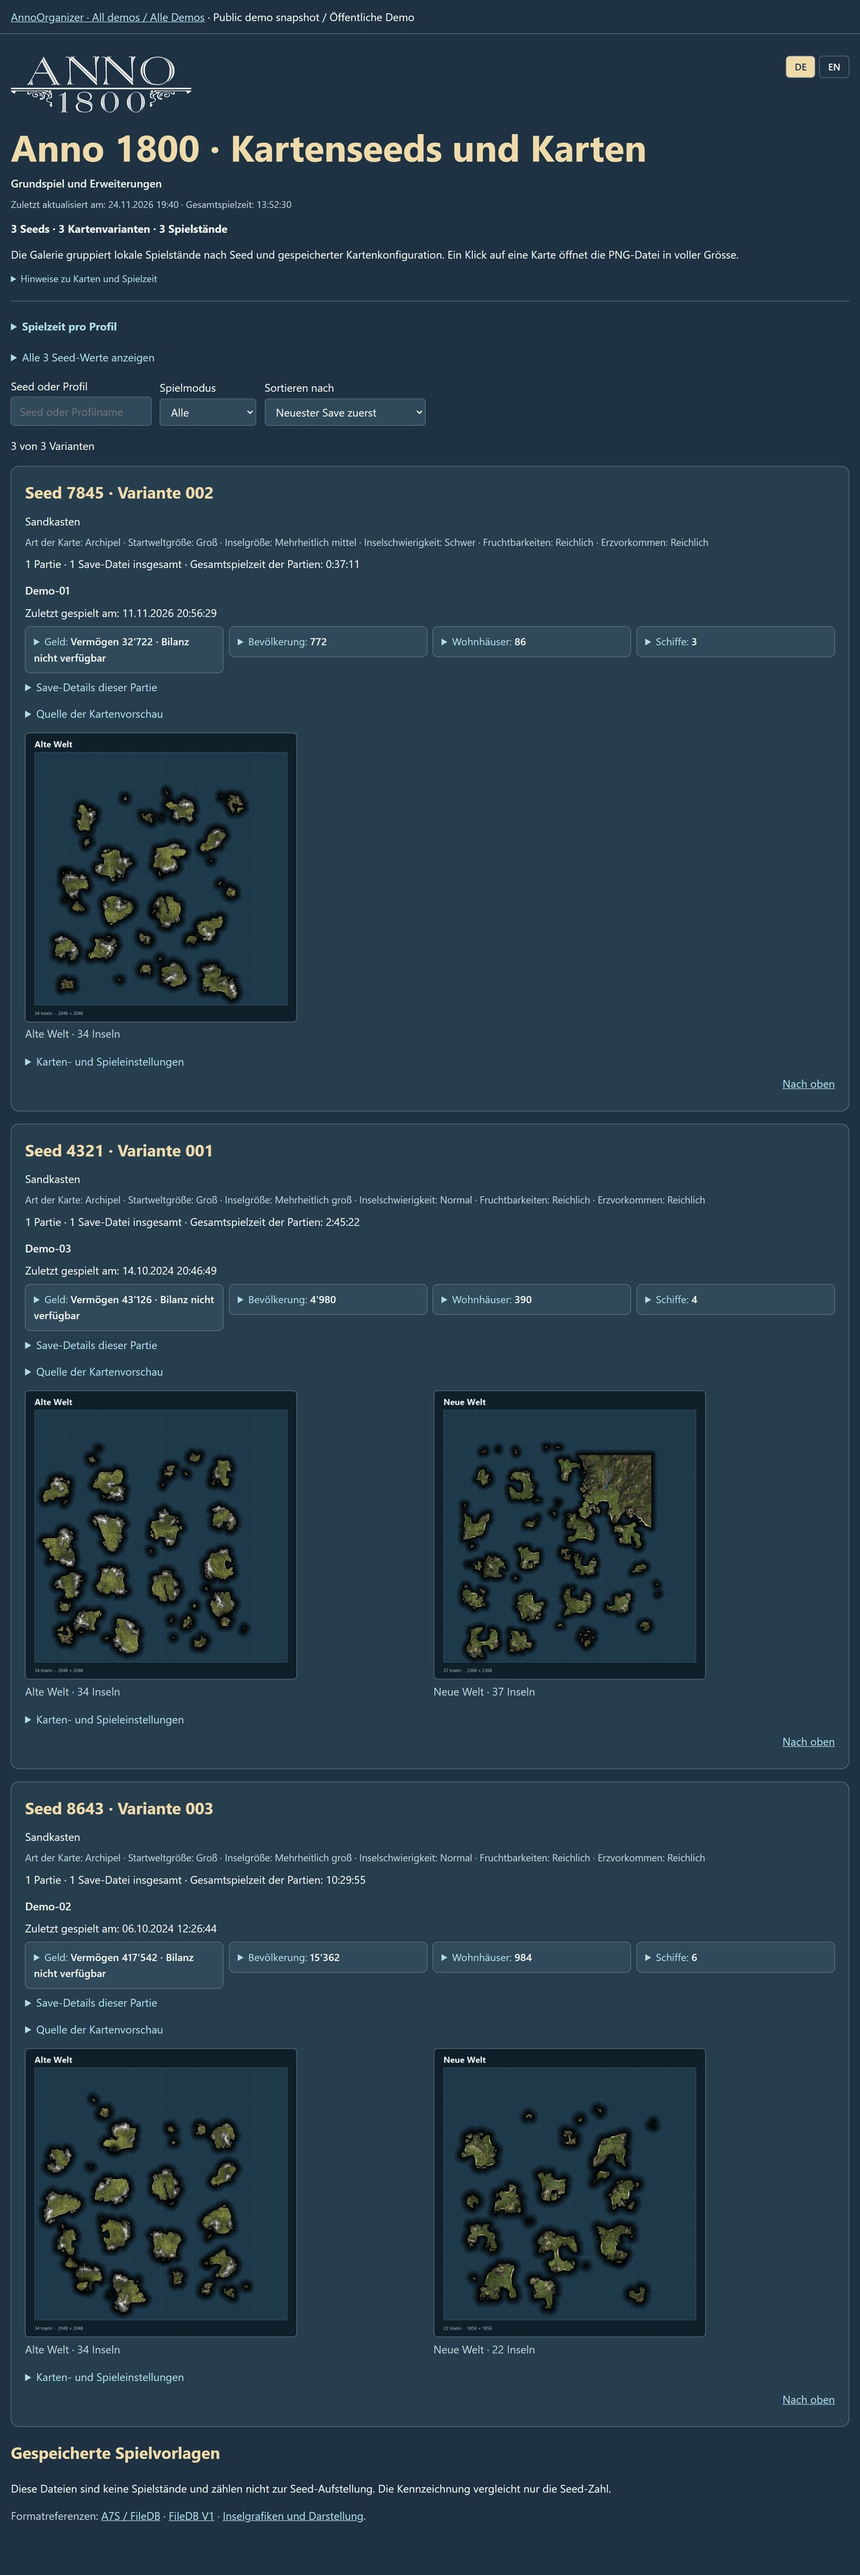
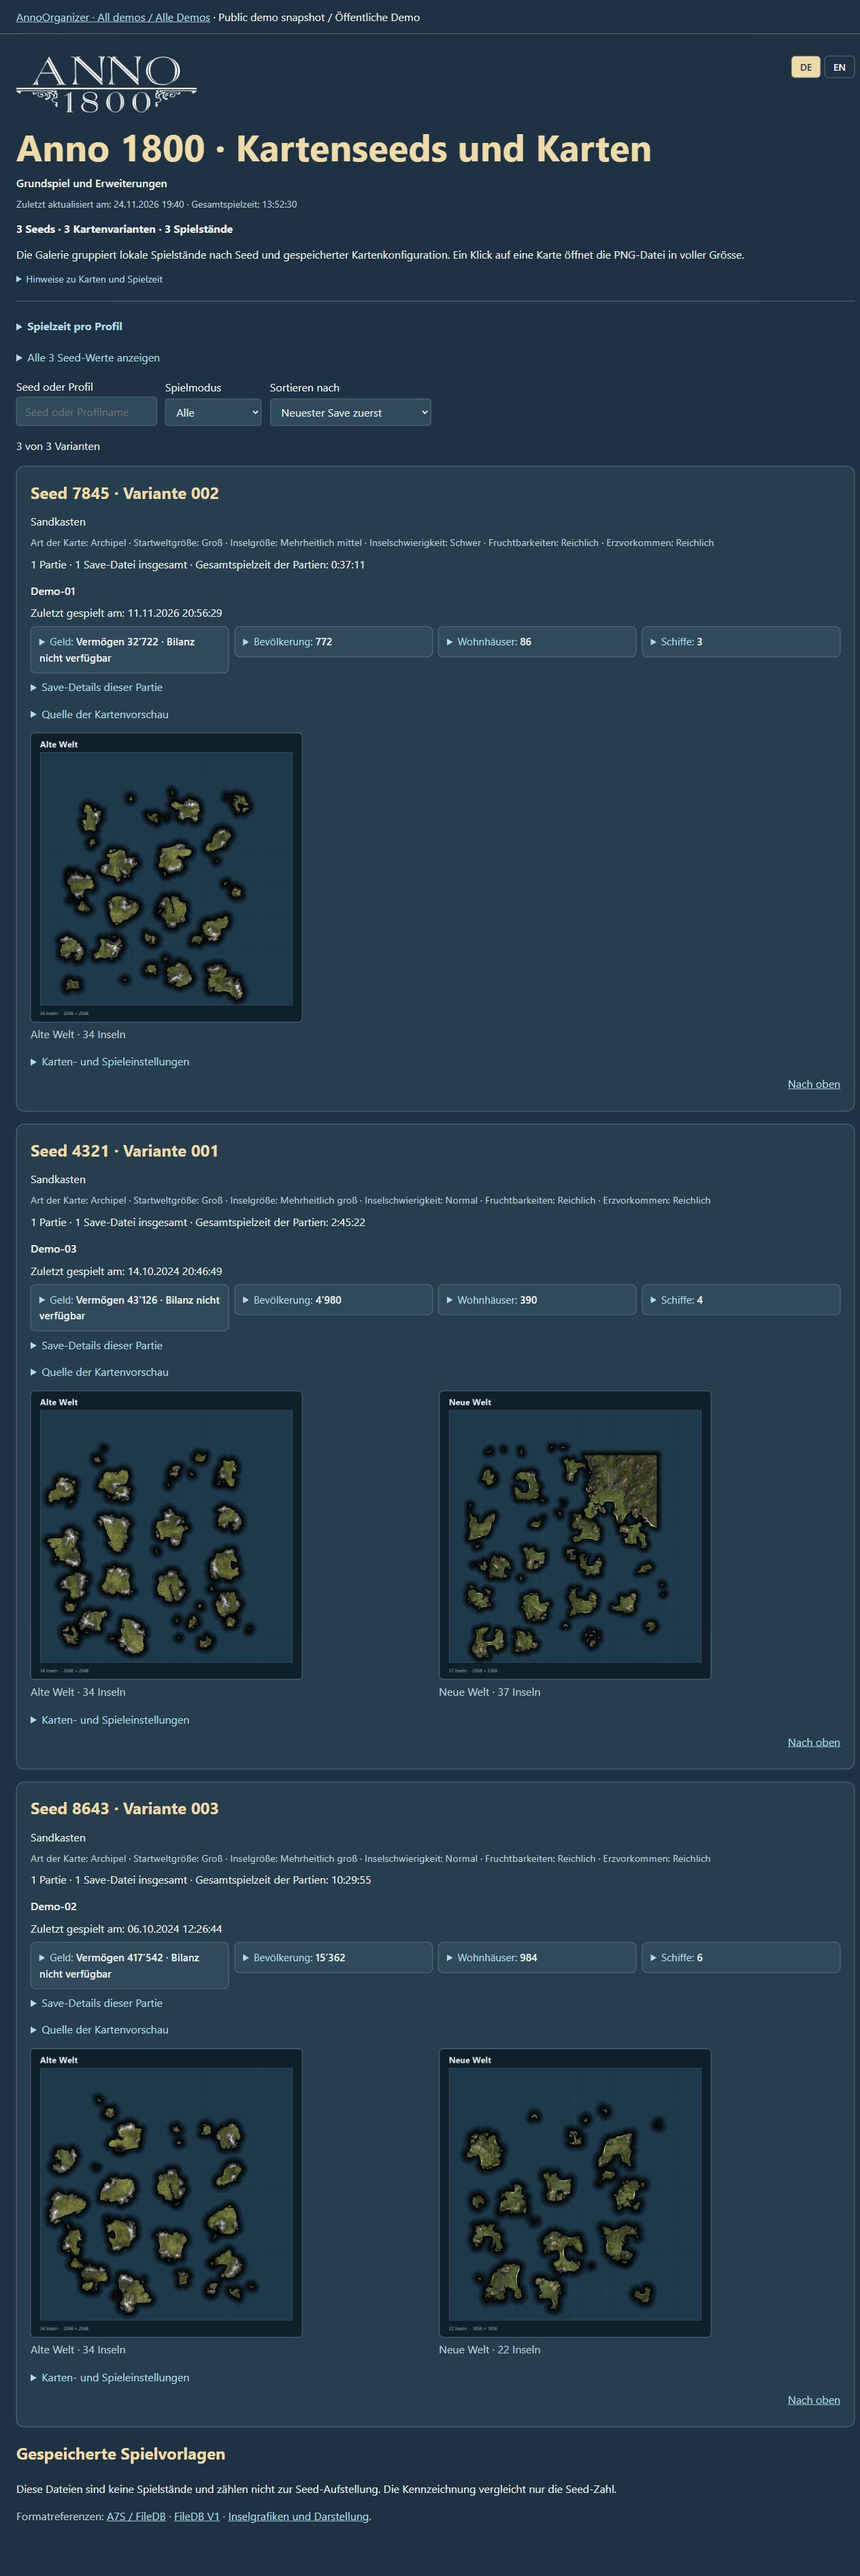
docs: refresh German and English gallery screenshots - Mithilfe von Codex

diff --git a/README.md b/README.md
@@ -33,12 +33,12 @@ The demo landing page and galleries share the same **DE/EN switch**. Your saved 
 
 ## Gallery previews
 
-The previews show all five bundled demo galleries; click an image for full resolution. Map demos include settled islands, population and residence counts in compact disclosure groups. All galleries use game logos and matching colours; Anno 1404 uses a light parchment theme.
+The previews show all five bundled demo galleries in English; click an image for full resolution. The German README uses matching German screenshots. Map demos include settled islands, population and residence counts in compact disclosure groups. All galleries use game logos and matching colours; Anno 1404 uses a light parchment theme.
 
 | Gallery | Anno 117 | Anno 1800 | Anno 1404 |
 |---|---|---|---|
-| Stamps | [<img src="anno117/docs/images/stamp-gallery.jpg" alt="Anno 117 demo stamp gallery with city layouts, Ceres filters and lavender expansion reserve" width="360">](anno117/docs/images/stamp-gallery.jpg) | [<img src="anno1800/docs/images/stamp-gallery.jpg" alt="Anno 1800 demo stamp gallery with tractor, silo, electricity, town hall and trade union filters" width="360">](anno1800/docs/images/stamp-gallery.jpg) | Not implemented |
-| Maps | [<img src="anno117/docs/images/map-gallery.jpg" alt="Anno 117 demo map gallery with population and residences" width="360">](anno117/docs/images/map-gallery.jpg) | [<img src="anno1800/docs/images/map-gallery.jpg" alt="Anno 1800 demo map gallery with population and residences" width="360">](anno1800/docs/images/map-gallery.jpg) | [<img src="anno1404/docs/images/map-gallery.jpg" alt="Anno 1404 demo map gallery with population and residences" width="360">](anno1404/docs/images/map-gallery.jpg) |
+| Stamps | [<img src="anno117/docs/images/stamp-gallery-en.jpg" alt="Anno 117 demo stamp gallery with city layouts, Ceres filters and lavender expansion reserve" width="360">](anno117/docs/images/stamp-gallery-en.jpg) | [<img src="anno1800/docs/images/stamp-gallery-en.jpg" alt="Anno 1800 demo stamp gallery with tractor, silo, electricity, town hall and trade union filters" width="360">](anno1800/docs/images/stamp-gallery-en.jpg) | Not implemented |
+| Maps | [<img src="anno117/docs/images/map-gallery-en.jpg" alt="Anno 117 demo map gallery with population and residences" width="360">](anno117/docs/images/map-gallery-en.jpg) | [<img src="anno1800/docs/images/map-gallery-en.jpg" alt="Anno 1800 demo map gallery with population and residences" width="360">](anno1800/docs/images/map-gallery-en.jpg) | [<img src="anno1404/docs/images/map-gallery-en.jpg" alt="Anno 1404 demo map gallery with population and residences" width="360">](anno1404/docs/images/map-gallery-en.jpg) |
 
 ## Quick start
 

diff --git a/anno1800/README.md b/anno1800/README.md
@@ -6,7 +6,7 @@
 
 [English](README.md) · [Deutsch](README.de.md)
 
-This folder is independently usable. It includes its own launcher, settings, dependencies and license and does not require the repository's main launcher or the other games. Source game files are read only. Menus, messages and gallery text currently remain German.
+This folder is independently usable. It includes its own launcher, settings, dependencies and license and does not require the repository's main launcher or the other games. Source game files are read only. Menus and log messages remain German; HTML galleries provide a DE/EN switch.
 
 ## Preview
 
@@ -14,13 +14,13 @@ This folder is independently usable. It includes its own launcher, settings, dep
 
 Five sample layouts across four regions, with technology and administration filters.
 
-[![Anno 1800 demo stamp gallery with tractor, silo, electricity, town hall and trade union filters](docs/images/stamp-gallery.jpg)](docs/images/stamp-gallery.jpg)
+[<img src="docs/images/stamp-gallery-en.jpg" alt="Anno 1800 demo stamp gallery with tractor, silo, electricity, town hall and trade union filters" width="360">](docs/images/stamp-gallery-en.jpg)
 
 ### Map gallery
 
 Standardised gallery header and Old World island overview with seed, saved map settings and save metadata.
 
-[<img src="docs/images/map-gallery.jpg" alt="Map gallery with population and residences" width="360">](docs/images/map-gallery.jpg)
+[<img src="docs/images/map-gallery-en.jpg" alt="Map gallery with population and residences" width="360">](docs/images/map-gallery-en.jpg)
 
 [Open the compact map gallery HTML demo](https://morima79.github.io/AnnoOrganizer/anno1800/maps/)
 

diff --git a/anno117/README.md b/anno117/README.md
@@ -6,7 +6,7 @@
 
 [English](README.md) · [Deutsch](README.de.md)
 
-This folder is independently usable. It includes its own launcher, settings, dependencies and license and does not require the repository's main launcher or the other games. Source game files are read only. Menus, messages and gallery text currently remain German.
+This folder is independently usable. It includes its own launcher, settings, dependencies and license and does not require the repository's main launcher or the other games. Source game files are read only. Menus and log messages remain German; HTML galleries provide a DE/EN switch.
 
 ## Preview
 
@@ -14,13 +14,13 @@ This folder is independently usable. It includes its own launcher, settings, dep
 
 Five sample layouts, including the two lavender variants and their expansion reserve.
 
-[![Anno 117 demo stamp gallery with city layouts, Ceres filters and lavender expansion reserve](docs/images/stamp-gallery.jpg)](docs/images/stamp-gallery.jpg)
+[<img src="docs/images/stamp-gallery-en.jpg" alt="Anno 117 demo stamp gallery with city layouts, Ceres filters and lavender expansion reserve" width="360">](docs/images/stamp-gallery-en.jpg)
 
 ### Map gallery
 
 Standardised gallery header and Latium island overview with seed, saved map settings and save metadata.
 
-[<img src="docs/images/map-gallery.jpg" alt="Map gallery with population and residences" width="360">](docs/images/map-gallery.jpg)
+[<img src="docs/images/map-gallery-en.jpg" alt="Map gallery with population and residences" width="360">](docs/images/map-gallery-en.jpg)
 
 [Open the compact map gallery HTML demo](https://morima79.github.io/AnnoOrganizer/anno117/maps/)
 

diff --git a/CHANGELOG.md b/CHANGELOG.md
@@ -7,6 +7,8 @@ Wichtige Änderungen an AnnoOrganizer. Jede Version enthält englische und deuts
 
 ### English
 
+- Capture all five demo galleries in German and English in the background; use matching screenshot languages and uniform 360-pixel previews throughout the eight READMEs.
+
 - Unify stamp-header totals for Anno 117 and 1800, counting exported stamps and represented regions with one border per badge in both languages.
 
 - Select demo saves with settled campaigns containing population and residences for all three games; refresh all five README screenshots and document the verified capture workflow. Read Anno 1800 residence population independently of missing or differing profile totals, with explicit source labels and discrepancy notes.
@@ -21,6 +23,8 @@ Wichtige Änderungen an AnnoOrganizer. Jede Version enthält englische und deuts
 - Added latest-save population, wealth, supported balance, residence, ship and settled-island statistics for all three games. Compact, initially collapsed bilingual groups keep details and save history out of the summary; uncertain values show “not available”. Excel includes a current-campaign worksheet. Added source/limitation documentation and regression coverage.
 
 ### Deutsch
+
+- Alle fünf Demo-Galerien im Hintergrund auf Deutsch und Englisch aufgenommen; passende Bildsprachen und einheitliche 360-Pixel-Vorschauen in allen acht READMEs eingebunden.
 
 - Stempel-Header für Anno 117 und 1800 vereinheitlicht: Gesamtzahl der Stempel und vertretenen Regionen mit genau einem Rahmen pro Anzeige in beiden Sprachen.
 

diff --git a/docs/gallery-templates.de.md b/docs/gallery-templates.de.md
@@ -44,7 +44,7 @@ Eigene Profil-, Ordner- und Stempelnamen, Dateipfade, technische Rohwerte und au
 
 Neue oder geänderte Übersetzungen in beiden zentralen JSON-Dateien pflegen, danach die Vorlagen synchronisieren und die Demo-Seiten aktualisieren. Die Tests prüfen Ressourcen-/Platzhaltergleichheit, gültige Bindungen aller fünf Seiten, unveränderte Identitäten, sichere Einbettung, eigenständige Anno-Kopien sowie das JavaScript-Verhalten bei gesperrtem oder ungültigem Browserspeicher. `node --test tests/gallery_i18n_runtime.cjs tests/map_catalog_runtime.cjs` führt die JavaScript-Tests separat aus; die Python-Tests rufen sie bei verfügbarem Node.js ebenfalls auf.
 
-[Englische Galerie-Vorschau mit DE/EN-Schalter](../anno117/docs/images/stamp-gallery-en.jpg). Alle fünf README-Vorschauen zeigen die aktuellen deutschen Demos mit Sprachschalter. Der geprüfte Aufnahmeweg über die Edge-DevTools steht in `AGENTS.md`. Vorhandene Aufnahmen haben dieselbe Bildbreite.
+[Englische Galerie-Vorschau mit DE/EN-Schalter](../anno117/docs/images/stamp-gallery-en.jpg). Alle fünf Galerien besitzen passende deutsche (`*-gallery.jpg`) und englische (`*-gallery-en.jpg`) Aufnahmen. Jede README verwendet ihre eigene Sprache, mit anklickbaren 360-Pixel-Vorschauen und 1264 Pixel Bildbreite. Der geprüfte Aufnahmeweg über die Edge-DevTools steht in `AGENTS.md`. Vorhandene Aufnahmen haben dieselbe Bildbreite.
 
 ## Vorlagen ändern
 

diff --git a/anno1800/README.de.md b/anno1800/README.de.md
@@ -6,7 +6,7 @@
 
 [English](README.md) · [Deutsch](README.de.md)
 
-Dieser Ordner ist unabhängig nutzbar und enthält seinen eigenen Starter, Einstellungen, Abhängigkeiten und Lizenz. Die anderen Anno-Ordner und der Hauptstarter werden nicht benötigt. Quelldateien werden ausschliesslich gelesen. Die technische Benennung ist Englisch; Menüs, Meldungen und Galerien bleiben Deutsch.
+Dieser Ordner ist unabhängig nutzbar und enthält seinen eigenen Starter, Einstellungen, Abhängigkeiten und Lizenz. Die anderen Anno-Ordner und der Hauptstarter werden nicht benötigt. Quelldateien werden ausschliesslich gelesen. Die technische Benennung ist Englisch; Menüs und Protokollmeldungen bleiben Deutsch. Die HTML-Galerien bieten einen DE/EN-Schalter.
 
 ## Vorschau
 
@@ -14,7 +14,7 @@ Dieser Ordner ist unabhängig nutzbar und enthält seinen eigenen Starter, Einst
 
 Fünf Beispielbaupläne aus vier Regionen mit Technik- und Verwaltungsfiltern.
 
-[![Anno-1800-Demo mit Filtern für Traktoren, Silos, Strom, Rathaus und Handelskammer](docs/images/stamp-gallery.jpg)](docs/images/stamp-gallery.jpg)
+[<img src="docs/images/stamp-gallery.jpg" alt="Anno-1800-Demo mit Filtern für Traktoren, Silos, Strom, Rathaus und Handelskammer" width="360">](docs/images/stamp-gallery.jpg)
 
 ### Kartengalerie
 

diff --git a/anno117/README.de.md b/anno117/README.de.md
@@ -6,7 +6,7 @@
 
 [English](README.md) · [Deutsch](README.de.md)
 
-Dieser Ordner ist unabhängig nutzbar und enthält seinen eigenen Starter, Einstellungen, Abhängigkeiten und Lizenz. Die anderen Anno-Ordner und der Hauptstarter werden nicht benötigt. Quelldateien werden ausschliesslich gelesen. Die technische Benennung ist Englisch; Menüs, Meldungen und Galerien bleiben Deutsch.
+Dieser Ordner ist unabhängig nutzbar und enthält seinen eigenen Starter, Einstellungen, Abhängigkeiten und Lizenz. Die anderen Anno-Ordner und der Hauptstarter werden nicht benötigt. Quelldateien werden ausschliesslich gelesen. Die technische Benennung ist Englisch; Menüs und Protokollmeldungen bleiben Deutsch. Die HTML-Galerien bieten einen DE/EN-Schalter.
 
 ## Vorschau
 
@@ -14,7 +14,7 @@ Dieser Ordner ist unabhängig nutzbar und enthält seinen eigenen Starter, Einst
 
 Fünf Beispielbaupläne, darunter die beiden Lavendelvarianten mit ihrer Ausbaureserve.
 
-[![Anno-117-Demo mit Stadtbauplänen, Ceres-Filtern und Lavendel-Ausbaureserve](docs/images/stamp-gallery.jpg)](docs/images/stamp-gallery.jpg)
+[<img src="docs/images/stamp-gallery.jpg" alt="Anno-117-Demo mit Stadtbauplänen, Ceres-Filtern und Lavendel-Ausbaureserve" width="360">](docs/images/stamp-gallery.jpg)
 
 ### Kartengalerie
 

diff --git a/docs/gallery-templates.md b/docs/gallery-templates.md
@@ -44,7 +44,7 @@ Custom profile, folder and stamp names, paths, raw technical values and object/D
 
 Maintain both canonical JSON files, then synchronise the templates and refresh the demos. Tests cover matching keys/placeholders, valid bindings on all five pages, identity preservation, safe embedding, independent game bundles and JavaScript behaviour with blocked or invalid browser storage. Run `node --test tests/gallery_i18n_runtime.cjs tests/map_catalog_runtime.cjs` for the JavaScript tests alone; Python tests also run them when Node.js is available.
 
-[English gallery preview with the DE/EN switch](../anno117/docs/images/stamp-gallery-en.jpg). All five README previews show the current German demos with their language switch and use the same image width. The verified Edge DevTools capture workflow is documented in `AGENTS.md`.
+[English gallery preview with the DE/EN switch](../anno117/docs/images/stamp-gallery-en.jpg). All five galleries have matching German (`*-gallery.jpg`) and English (`*-gallery-en.jpg`) screenshots. Each README uses its own language, with clickable 360-pixel previews and a source image width of 1264 pixels. The verified Edge DevTools capture workflow is documented in `AGENTS.md`.
 
 ## Changing templates
 

diff --git a/anno1404/README.md b/anno1404/README.md
@@ -6,13 +6,13 @@
 
 [English](README.md) · [Deutsch](README.de.md)
 
-This folder is independently usable. It includes its own launcher, settings, dependencies and license and does not require the repository's main launcher or the other games. Source game files are read only. Menus, messages and gallery text currently remain German.
+This folder is independently usable. It includes its own launcher, settings, dependencies and license and does not require the repository's main launcher or the other games. Source game files are read only. Menus and log messages remain German; HTML galleries provide a DE/EN switch.
 
 ## Preview
 
 Standardised gallery header and three map variants from Anno 1404, Venice and the History Edition.
 
-[<img src="docs/images/map-gallery.jpg" alt="Map gallery with population and residences" width="360">](docs/images/map-gallery.jpg)
+[<img src="docs/images/map-gallery-en.jpg" alt="Map gallery with population and residences" width="360">](docs/images/map-gallery-en.jpg)
 
 [Open the compact map gallery HTML demo](https://morima79.github.io/AnnoOrganizer/anno1404/maps/)
 

diff --git a/README.de.md b/README.de.md
@@ -33,7 +33,7 @@ Demo-Startseite und Galerien verwenden denselben **DE/EN-Schalter**. Die gespeic
 
 ## Galerie-Vorschau
 
-Die Vorschauen zeigen alle fünf mitgelieferten Demo-Galerien; ein Klick öffnet das Bild in voller Auflösung. Die Kartendemos enthalten Einwohner- und Wohnhauszahlen in kompakten aufklappbaren Gruppen. Alle Galerien verwenden Spiel-Logos und passende Farben; Anno 1404 eine helle Pergamentoptik.
+Die Vorschauen zeigen alle fünf mitgelieferten Demo-Galerien auf Deutsch; ein Klick öffnet das Bild in voller Auflösung. Die englische README verwendet die entsprechenden englischen Aufnahmen. Die Kartendemos enthalten Einwohner- und Wohnhauszahlen in kompakten aufklappbaren Gruppen. Alle Galerien verwenden Spiel-Logos und passende Farben; Anno 1404 eine helle Pergamentoptik.
 
 | Galerie | Anno 117 | Anno 1800 | Anno 1404 |
 |---|---|---|---|

diff --git a/anno1404/README.de.md b/anno1404/README.de.md
@@ -6,7 +6,7 @@
 
 [English](README.md) · [Deutsch](README.de.md)
 
-Dieser Ordner ist unabhängig nutzbar und enthält seinen eigenen Starter, Einstellungen, Abhängigkeiten und Lizenz. Die anderen Anno-Ordner und der Hauptstarter werden nicht benötigt. Quelldateien werden ausschliesslich gelesen. Die technische Benennung ist Englisch; Menüs, Meldungen und Galerien bleiben Deutsch.
+Dieser Ordner ist unabhängig nutzbar und enthält seinen eigenen Starter, Einstellungen, Abhängigkeiten und Lizenz. Die anderen Anno-Ordner und der Hauptstarter werden nicht benötigt. Quelldateien werden ausschliesslich gelesen. Die technische Benennung ist Englisch; Menüs und Protokollmeldungen bleiben Deutsch. Die HTML-Galerien bieten einen DE/EN-Schalter.
 
 ## Vorschau
 

diff --git a/AGENTS.md b/AGENTS.md
@@ -216,6 +216,8 @@ keine Voraussetzung. Die Edge-DevTools weiter unten sind eine Alternative.
    bevor andere Tools verwendet werden. Mit Pillow JPEG-Format, positive Höhe
    und exakt 1264 Pixel Breite prüfen. Bilder visuell kontrollieren; nur dann
    nach `<spiel>/docs/images/map-gallery.jpg` bzw. `stamp-gallery.jpg` übernehmen.
+   Deutsche Aufnahmen verwenden `*-gallery.jpg`, englische `*-gallery-en.jpg`;
+   jede README-Sprachfassung verlinkt ihre eigene Bildsprache.
    Keine README-Bilder allein für einen Ablauf-Test überschreiben. Beide
    README-Sprachen gemeinsam pflegen und vorhandene 360-Pixel-Verweise erhalten.
 6. Viewport auch im Fehlerfall zurücksetzen, temporäre Tabs unmarkiert lassen
